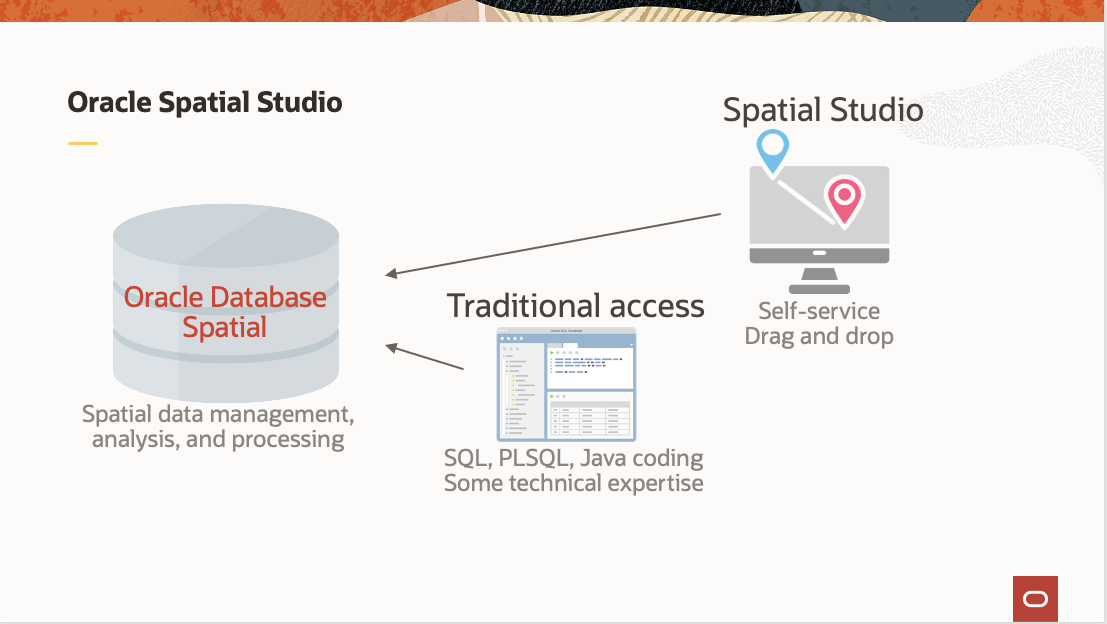
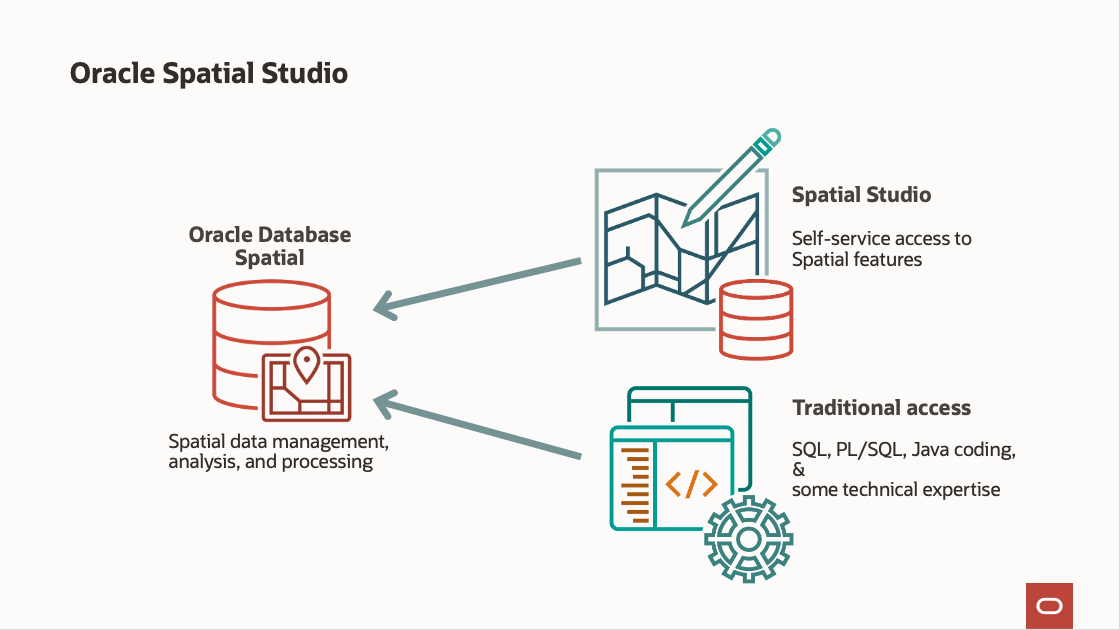
Updated intro slide with new layout and renamed the old

diff --git a/spatial-studio/workshops/install-spatial-studio-mp/introduction/introduction.md b/spatial-studio/workshops/install-spatial-studio-mp/introduction/introduction.md
@@ -35,4 +35,4 @@ For more information please visit [https://www.oracle.com/database/spatial/](htt
 
 - **Author** - David Lapp, Database Product Management, Oracle
 - **Contributors** - Karin Patenge, Database Product Management
-- **Last Updated By/Date** - Denise Myrick, Database Product Management, November 2024
+- **Last Updated By/Date** - Renée Wikestad, Database Product Management, June 2025
